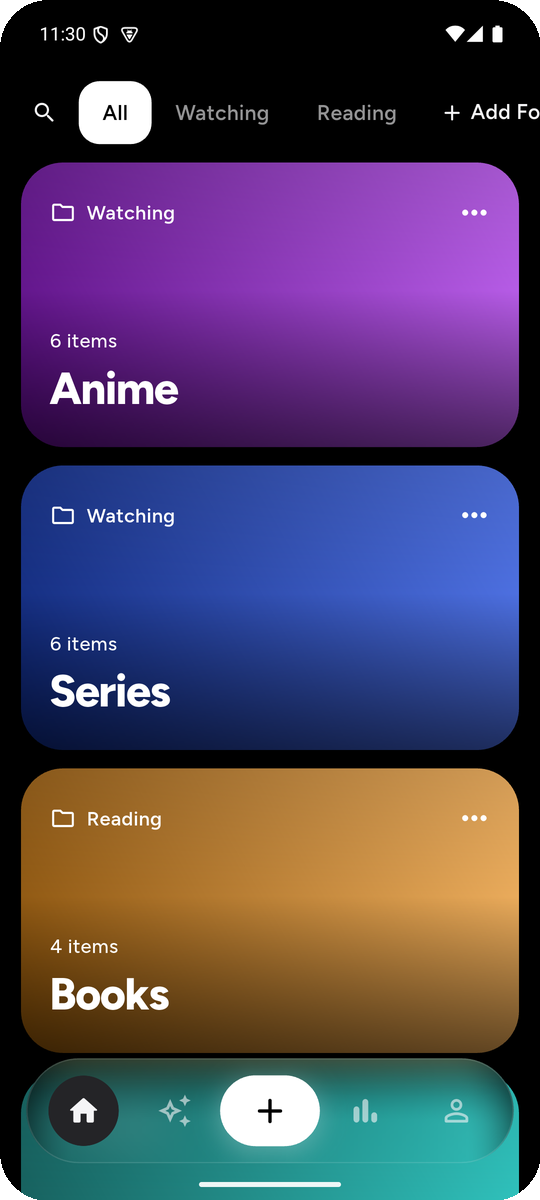
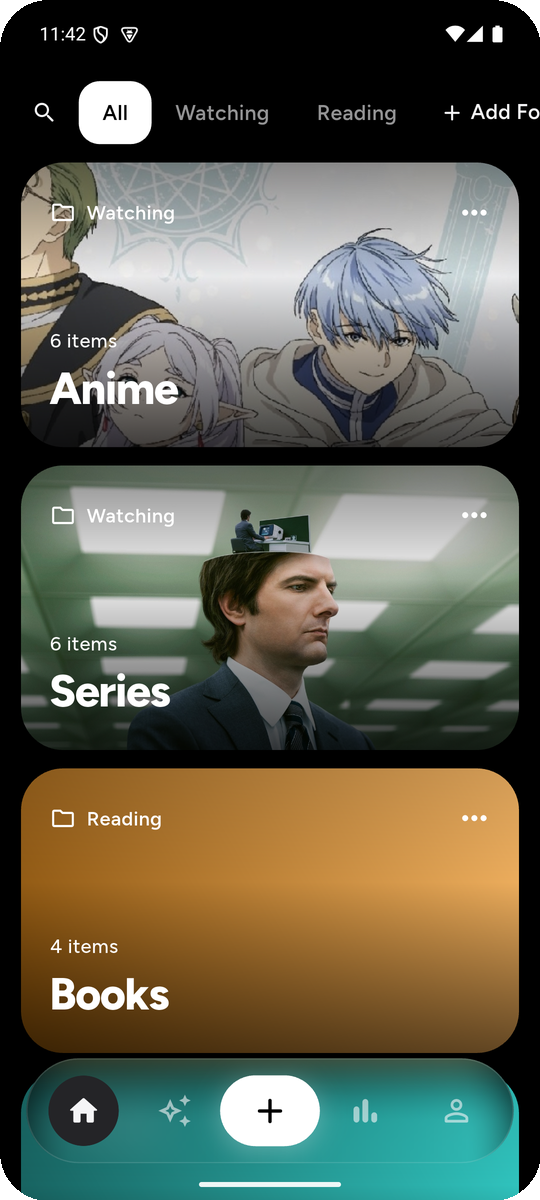
README: books and photo-cover lists up top; stronger scrim on photo covers
Banner and first screenshot row now show the Books list and lists with
photo covers. Photo covers get a darker scrim so the white title and
folder label stay readable on bright images.

diff --git a/lib/widgets.dart b/lib/widgets.dart
@@ -299,8 +299,9 @@ class ListCover extends StatelessWidget {
     final hsl = HSLColor.fromColor(base);
     final deep = hsl.withLightness((hsl.lightness * 0.45).clamp(0.08, 0.4)).toColor();
     final light = hsl.withLightness((hsl.lightness * 1.15).clamp(0.3, 0.72)).toColor();
+    final photo = file != null && file.existsSync();
     return Stack(fit: StackFit.expand, children: [
-      if (file != null && file.existsSync())
+      if (photo)
         Image.file(file, fit: BoxFit.cover, errorBuilder: (_, _, _) => const SizedBox())
       else
         DecoratedBox(
@@ -308,14 +309,16 @@ class ListCover extends StatelessWidget {
             gradient: LinearGradient(begin: Alignment.bottomLeft, end: Alignment.topRight, colors: [deep, light]),
           ),
         ),
-      // Scrim so white text stays legible on any photo or colour.
-      const DecoratedBox(
+      // Scrim so white text stays legible on any photo or colour (photos can be bright, so they get more).
+      DecoratedBox(
         decoration: BoxDecoration(
           gradient: LinearGradient(
             begin: Alignment.topCenter,
             end: Alignment.bottomCenter,
-            colors: [Color(0x26000000), Color(0x00000000), Color(0x8C000000)],
-            stops: [0, 0.45, 1],
+            colors: photo
+                ? const [Color(0x73000000), Color(0x0D000000), Color(0xBF000000)]
+                : const [Color(0x26000000), Color(0x00000000), Color(0x8C000000)],
+            stops: const [0, 0.4, 1],
           ),
         ),
       ),

diff --git a/README.md b/README.md
@@ -18,10 +18,10 @@
 ---
 
 <p align="center">
-  <img src="docs/screenshots/home_dark.png" width="24%" alt="Home: your lists">
+  <img src="docs/screenshots/home_dark.png" width="24%" alt="Home: your lists, with photo covers">
+  <img src="docs/screenshots/books_dark.png" width="24%" alt="A books list with reading progress">
   <img src="docs/screenshots/list_anime.png" width="24%" alt="An anime list">
   <img src="docs/screenshots/item_series.png" width="24%" alt="Series progress">
-  <img src="docs/screenshots/stats.png" width="24%" alt="Stats">
 </p>
 
 ## In motion
@@ -54,8 +54,18 @@ Revue looks up how many **episodes, seasons or pages** something has, including 
 ### 🗂 Your lists, your folders
 No default lists. Make your own, give each a **colour or a cover photo**, and group them into folders like *Watching* or *Reading*.
 
+<p align="center">
+  <img src="docs/screenshots/list_series.png" width="30%" alt="A list with a photo cover">
+  &nbsp;
+  <img src="docs/screenshots/home_light.png" width="30%" alt="Lists with colour covers">
+</p>
+
 ### 📊 Stats
 How much you saved this week, month, year or all time, what's in progress, episodes watched, pages read, and a bar per list.
+
+<p align="center">
+  <img src="docs/screenshots/stats.png" width="30%" alt="Stats">
+</p>
 
 ### 🖼 Screenshots, read on-device
 Google ML Kit reads the text in your screenshots **on the device**. The local model then gives each one a title, a summary and tags, and any link inside is detected.
@@ -68,10 +78,9 @@ Chat with an on-device LLM (Qwen 2.5 via MediaPipe) about your library: *"what w
 ## Light and dark
 
 <p align="center">
-  <img src="docs/screenshots/home_light.png" width="24%" alt="Home in light mode">
-  <img src="docs/screenshots/books_light.png" width="24%" alt="Books list in light mode">
-  <img src="docs/screenshots/book_light.png" width="24%" alt="A book in light mode">
-  <img src="docs/screenshots/list_series.png" width="24%" alt="Series list in dark mode">
+  <img src="docs/screenshots/books_light.png" width="30%" alt="Books list in light mode">
+  <img src="docs/screenshots/book_light.png" width="30%" alt="A book in light mode">
+  <img src="docs/screenshots/books_dark.png" width="30%" alt="Books list in dark mode">
 </p>
 
 Revue has its own look on both platforms — the Figtree typeface, soft glass surfaces, spring animations and haptics — rather than imitating Android or iOS.
